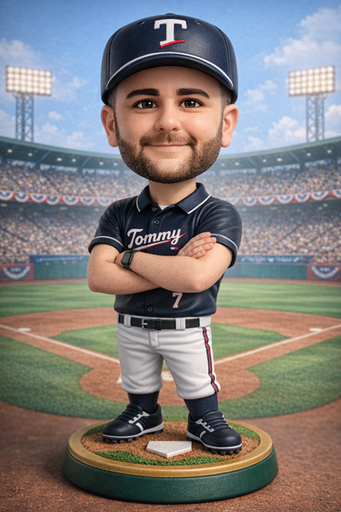
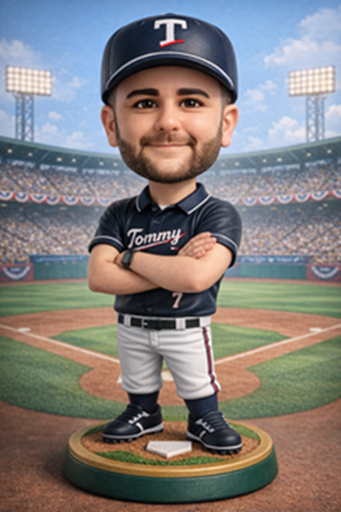
Enhance Photos app with selection, preview and navigation

diff --git a/shayanshahani-macos-main/components/apps/photos.tsx b/shayanshahani-macos-main/components/apps/photos.tsx
@@ -1,6 +1,6 @@
 "use client";
 
-import { useState } from "react";
+import { useState, useEffect } from "react";
 import Image from "next/image";
 
 interface PhotosProps {
@@ -22,44 +22,83 @@ export default function Photos({ isDarkMode = true }: PhotosProps) {
   ];
 
   const [selectedPhoto, setSelectedPhoto] = useState<number | null>(null);
-  const [openedPhoto, setOpenedPhoto] = useState<string | null>(null);
+  const [openedPhotoIndex, setOpenedPhotoIndex] = useState<number | null>(null);
 
   const bgColor = isDarkMode ? "bg-zinc-900" : "bg-white";
-  const sidebarColor = isDarkMode ? "bg-zinc-800" : "bg-zinc-100";
   const textColor = isDarkMode ? "text-white" : "text-zinc-900";
 
+  const borderColor = isDarkMode ? "border-zinc-700" : "border-zinc-200";
+
+  const currentPhoto =
+    openedPhotoIndex !== null ? photos[openedPhotoIndex] : null;
+
+  // Keyboard navigation
+  useEffect(() => {
+    const handleKeyDown = (e: KeyboardEvent) => {
+      if (openedPhotoIndex === null) return;
+
+      if (e.key === "Escape") {
+        setOpenedPhotoIndex(null);
+      }
+
+      if (e.key === "ArrowRight") {
+        setOpenedPhotoIndex((openedPhotoIndex + 1) % photos.length);
+      }
+
+      if (e.key === "ArrowLeft") {
+        setOpenedPhotoIndex(
+          (openedPhotoIndex - 1 + photos.length) % photos.length,
+        );
+      }
+    };
+
+    window.addEventListener("keydown", handleKeyDown);
+
+    return () => window.removeEventListener("keydown", handleKeyDown);
+  }, [openedPhotoIndex, photos.length]);
+
   return (
-    <div className={`h-full flex flex-col ${bgColor} ${textColor}`}>
+    <div
+      className={`h-full flex flex-col ${bgColor} ${textColor}`}
+      onClick={() => setSelectedPhoto(null)}
+    >
       {/* Toolbar */}
       <div
-        className={`h-12 px-4 border-b flex items-center ${
-          isDarkMode ? "border-zinc-700" : "border-zinc-200"
-        }`}
+        className={`h-12 px-4 border-b ${borderColor} flex items-center justify-between`}
       >
         <h2 className="font-medium">Photos</h2>
+
+        <div className="text-xs text-zinc-500">{photos.length} Photos</div>
       </div>
 
       {/* Content */}
       <div className="flex-1 overflow-auto p-6">
         <div className="grid grid-cols-3 gap-6">
-          {photos.map((photo) => (
+          {photos.map((photo, index) => (
             <div
               key={photo.id}
-              onClick={() => setSelectedPhoto(photo.id)}
-              onDoubleClick={() => setOpenedPhoto(photo.src)}
-              className={`
-                cursor-pointer
-                rounded-xl
-                overflow-hidden
-                transition-all
-                ${
-                  selectedPhoto === photo.id
-                    ? "ring-2 ring-blue-500"
-                    : "hover:scale-[1.02]"
-                }
-              `}
+              className="cursor-pointer"
+              onClick={(e) => {
+                e.stopPropagation();
+                setSelectedPhoto(photo.id);
+              }}
+              onDoubleClick={() => setOpenedPhotoIndex(index)}
             >
-              <div className="aspect-square relative">
+              {/* Selection only around image */}
+              <div
+                className={`
+                  relative
+                  aspect-square
+                  overflow-hidden
+                  rounded-xl
+                  transition-all duration-200
+                  ${
+                    selectedPhoto === photo.id
+                      ? "ring-2 ring-blue-500 scale-[1.02]"
+                      : "hover:scale-[1.02]"
+                  }
+                `}
+              >
                 <Image
                   src={photo.src}
                   alt={photo.title}
@@ -68,33 +107,66 @@ export default function Photos({ isDarkMode = true }: PhotosProps) {
                 />
               </div>
 
-              <div className="p-2 text-sm text-center">{photo.title}</div>
+              <p className="mt-2 text-sm text-center text-zinc-500">
+                {photo.title}
+              </p>
             </div>
           ))}
         </div>
       </div>
 
-      {/* Preview */}
-      {openedPhoto && (
+      {/* Preview Modal */}
+      {currentPhoto && (
         <div
-          className="absolute inset-0 z-50 bg-black/90 flex items-center justify-center"
-          onClick={() => setOpenedPhoto(null)}
+          className="absolute inset-0 z-50 bg-black/90 backdrop-blur-sm flex items-center justify-center animate-in fade-in duration-300"
+          onClick={() => setOpenedPhotoIndex(null)}
         >
+          {/* Close */}
           <button
-            className="absolute top-4 right-4 text-white text-2xl"
-            onClick={() => setOpenedPhoto(null)}
+            className="absolute top-5 right-6 text-white text-3xl hover:opacity-70 transition"
+            onClick={() => setOpenedPhotoIndex(null)}
           >
             ×
           </button>
 
+          {/* Previous */}
+          {photos.length > 1 && (
+            <button
+              onClick={(e) => {
+                e.stopPropagation();
+                setOpenedPhotoIndex(
+                  (openedPhotoIndex! - 1 + photos.length) % photos.length,
+                );
+              }}
+              className="absolute left-5 text-white text-5xl hover:opacity-70 transition"
+            >
+              ‹
+            </button>
+          )}
+
+          {/* Next */}
+          {photos.length > 1 && (
+            <button
+              onClick={(e) => {
+                e.stopPropagation();
+                setOpenedPhotoIndex((openedPhotoIndex! + 1) % photos.length);
+              }}
+              className="absolute right-5 text-white text-5xl hover:opacity-70 transition"
+            >
+              ›
+            </button>
+          )}
+
+          {/* Image */}
           <div
-            className="relative w-[85%] h-[85%]"
+            className="relative w-[85%] h-[85%] animate-in zoom-in-95 duration-300"
             onClick={(e) => e.stopPropagation()}
           >
             <Image
-              src={openedPhoto}
-              alt="Preview"
+              src={currentPhoto.src}
+              alt={currentPhoto.title}
               fill
+              priority
               className="object-contain"
             />
           </div>